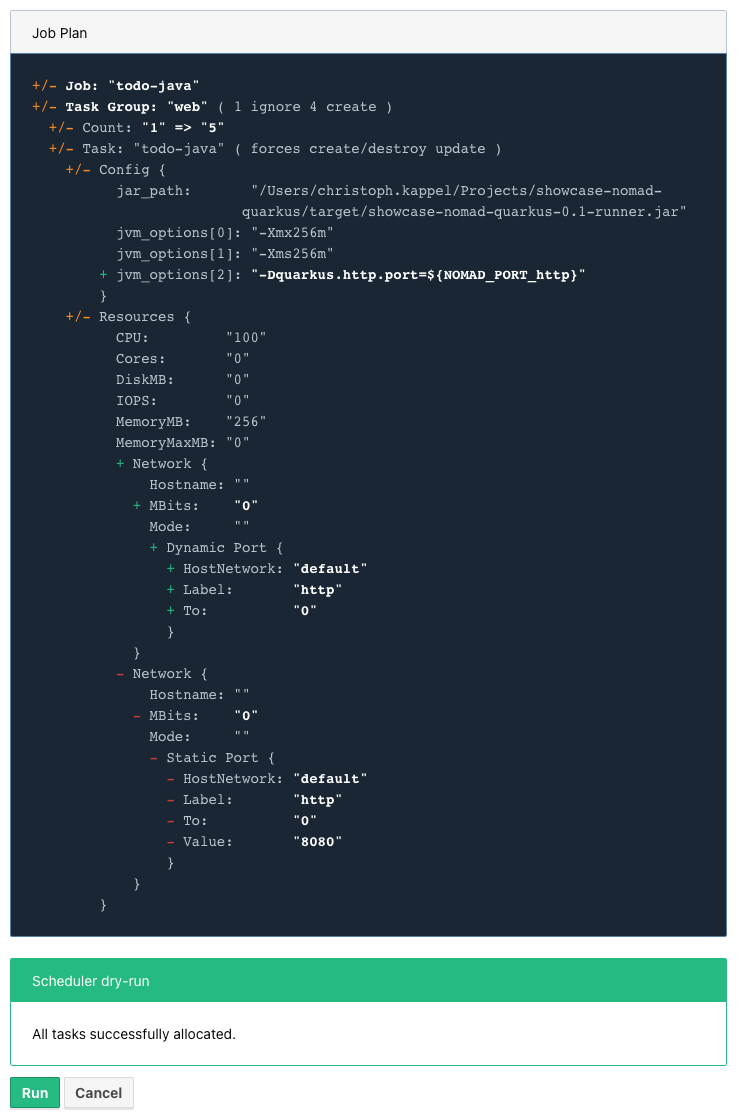
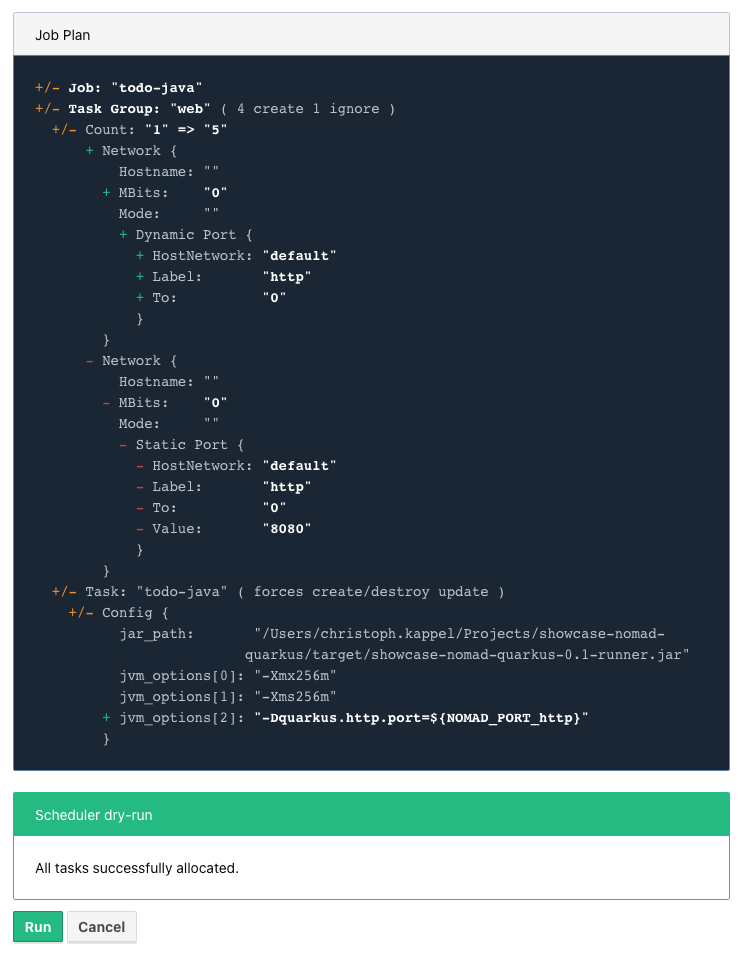
Updated images

Changed region(s): [[0.0, 0.0, 0.9933, 1.0], [0.0931, 0.6073, 0.1552, 0.6377], [0.3725, 0.5466, 0.4035, 0.577]]

diff --git a/_drafts/nomad.md b/_drafts/nomad.md
@@ -94,12 +94,12 @@ job "todo-java" {
 
       resources { # <7>
         memory = 256
+      }
+    }
 
-        network { # <8>
-          port "http" {
-            static = 8080
-          }
-        }
+    network { # <8>
+      port "http" {
+        static = 8080
       }
     }
   }
@@ -112,8 +112,9 @@ job "todo-java" {
 **<4>** This is the actual task definition and the smallest unit inside of [Nomad][]. \
 **<5>** The [Java][] task driver allows to run a jar inside of a [JVM][]. \
 **<6>** Config options for the chosen task driver. \
-**<7>** [Resource limits][] can be set for cpu and memory.. \
-**<8>** ..as well as for network and ports. (We need the port definition later)
+**<7>** [Resource limits][] can be set for cpu and memory. \
+**<8>** And additionally network and ports can be set for the whole group.
+ (We need the port definition later)
 
 The next steps assume you've successfully set up and started [Nomad][], if not please have a look
 at the [great resources here][].
@@ -276,6 +277,7 @@ We first have to remove the static port from our job definition, so it does look
 ```hcl
 network {
   port "http" {}
+}
 ```
 
 And secondly we update the driver config to include some of the logic mentioned before in [HCL][]:
@@ -296,7 +298,7 @@ And finally after a final press of **Run** we can see another success and five r
 
 ![image](/assets/images/nomad/update_success.png)
 
-Getting the actual ports of the instances is a bit tedious, let us just move on how to put all of
+Getting the actual dynamic ports of the instances is a bit tedious, let us just move on how to put all of
 them behind a load balancer.
 
 #### Load balancing
